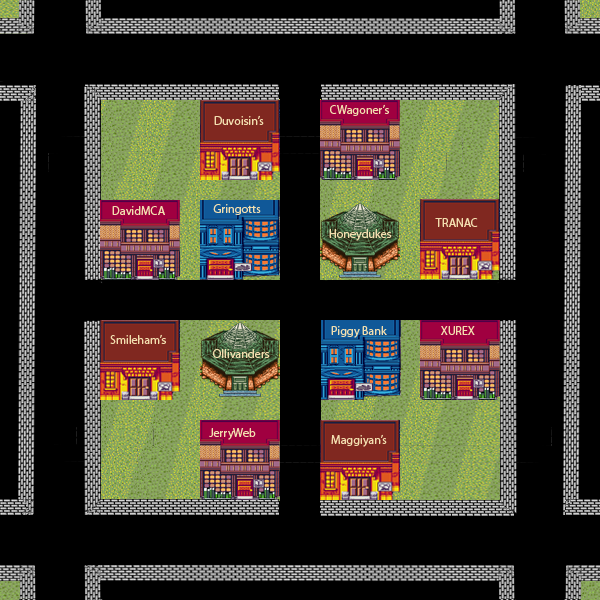
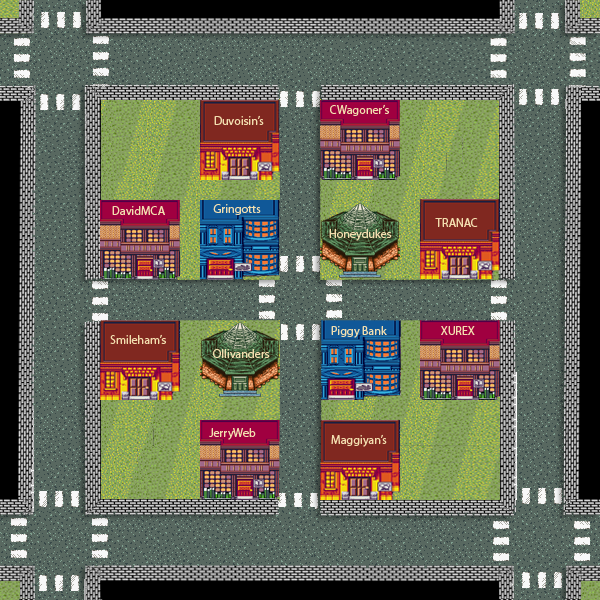
add roads cars and people but need to fine tune this ish

diff --git a/src/city/gui/CityPerson.java b/src/city/gui/CityPerson.java
@@ -4,6 +4,10 @@ import java.awt.Color;
 import java.awt.Graphics;
 import java.awt.Graphics2D;
 import java.awt.Rectangle;
+import java.awt.image.BufferedImage;
+import java.io.IOException;
+
+import javax.imageio.ImageIO;
 
 import base.Block;
 import base.ContactList;
@@ -15,6 +19,10 @@ public class CityPerson extends CityComponent {
 //	private String name = "";
 	PersonAgent mPerson = null;
 	SimCityGui gui;
+	
+	BufferedImage up, right, left, down, current;
+	BufferedImage carfront, carright, carleft, carback; 
+	BufferedImage personfront, personright, personleft, personback; 
 	
 	public Location mDestination = null; 
 	public Location mFinalDestination = null;
@@ -37,6 +45,33 @@ public class CityPerson extends CityComponent {
 		mPerson = person;
 		this.gui = gui;
 		this.enable();
+		
+		initializeImages(); 
+	}
+	
+	private void initializeImages() {
+		try {
+			java.net.URL cfrontURL = this.getClass().getClassLoader().getResource("city/gui/images/cardown.png");
+			carfront = ImageIO.read(cfrontURL);
+			java.net.URL crightURL = this.getClass().getClassLoader().getResource("city/gui/images/carright.png");
+			carright = ImageIO.read(crightURL);
+			java.net.URL cbackURL = this.getClass().getClassLoader().getResource("city/gui/images/carup.png");
+			carback = ImageIO.read(cbackURL);
+			java.net.URL cleftURL = this.getClass().getClassLoader().getResource("city/gui/images/carleft.png");
+			carleft = ImageIO.read(cleftURL);
+			
+			java.net.URL pfrontURL = this.getClass().getClassLoader().getResource("city/gui/images/persondown.png");
+			personfront = ImageIO.read(pfrontURL);
+			java.net.URL prightURL = this.getClass().getClassLoader().getResource("city/gui/images/personright.png");
+			personright = ImageIO.read(prightURL);
+			java.net.URL pbackURL = this.getClass().getClassLoader().getResource("city/gui/images/personup.png");
+			personback = ImageIO.read(pbackURL);
+			java.net.URL pleftURL = this.getClass().getClassLoader().getResource("city/gui/images/personleft.png");
+			personleft = ImageIO.read(pleftURL);
+		}
+		catch(IOException e) {
+			e.printStackTrace();
+		}
 	}
 
 	@Override
@@ -45,11 +80,23 @@ public class CityPerson extends CityComponent {
 		previousY = y;
 			
 		if (mDestination != null) {
-			if (x < mDestination.mX)		x++;
-	        else if (x > mDestination.mX)	x--;
+			if (x < mDestination.mX){
+				x++; 
+				current = right;
+			}
+	        else if (x > mDestination.mX){
+	        	x--;
+	        	current = left;
+	        }
 	
-	        if (y < mDestination.mY)		y++;
-	        else if (y > mDestination.mY)	y--;
+	        if (y < mDestination.mY){
+	        	y++;
+	        	current = down; 
+	        }
+	        else if (y > mDestination.mY){
+	        	y--;
+	        	current = up;
+	        }
 	        
 	        //if at destination
 	        if (x == mDestination.mX && y == mDestination.mY) {
@@ -107,8 +154,19 @@ public class CityPerson extends CityComponent {
 		//If person has a car
 		if (mDeliverying ||(mPerson.hasCar() && !mGettingCar)) {
 			if (mDeliverying || mPerson.hasCar()) {
+				//Animations
+				up = carback;
+				down = carfront;
+				right = carright;
+				left = carleft;
 				//if at corner closest to destination, walk to destination
 				if (mLocation.equals(destParking)){
+					//Animations
+					up = personback;
+					down = personfront;
+					right = personright;
+					left = personleft;
+					
 					x = closeCorner.mX;
 					y = closeCorner.mY;
 					mDestination = ContactList.getDoorLocation(mFinalDestination);
@@ -151,6 +209,11 @@ public class CityPerson extends CityComponent {
 		
 		//Else - if person does not have car, use bus
 		else {
+			//Animations
+			up = personback;
+			down = personfront;
+			right = personright;
+			left = personleft;
 			if (mLocation.equals(destCorner)) {
 				mUsingCar = false;
 				mDestinationPathType = 0;
@@ -180,7 +243,7 @@ public class CityPerson extends CityComponent {
 //		rectangle.y = y;
 		if(isActive) {
 			if (! onBus) {
-//				if(SimCityGui.GRADINGVIEW) {
+				if(SimCityGui.GRADINGVIEW) {
 					g.setColor(Color.WHITE);
 					g.drawString(mPerson.getName(),x,y);
 					if(mDeliverying) {
@@ -195,15 +258,10 @@ public class CityPerson extends CityComponent {
 						g.setColor(Color.yellow);
 						g.fillRect(x, y, 5, 5);
 					}
-//					g.setColor(Color.WHITE);
-//					g.drawString(name, x - 10, y);
-//				}
-//				else {
-//					g.setColor(color);
-//					g.fillRect(x, y, 5, 5);
-//					g.setColor(Color.WHITE);
-//					g.drawString(name, x - 10, y);
-//				}
+				}
+				else{
+					g.drawImage(current, x, y, null);
+				}
 			}
 		}
 	}
